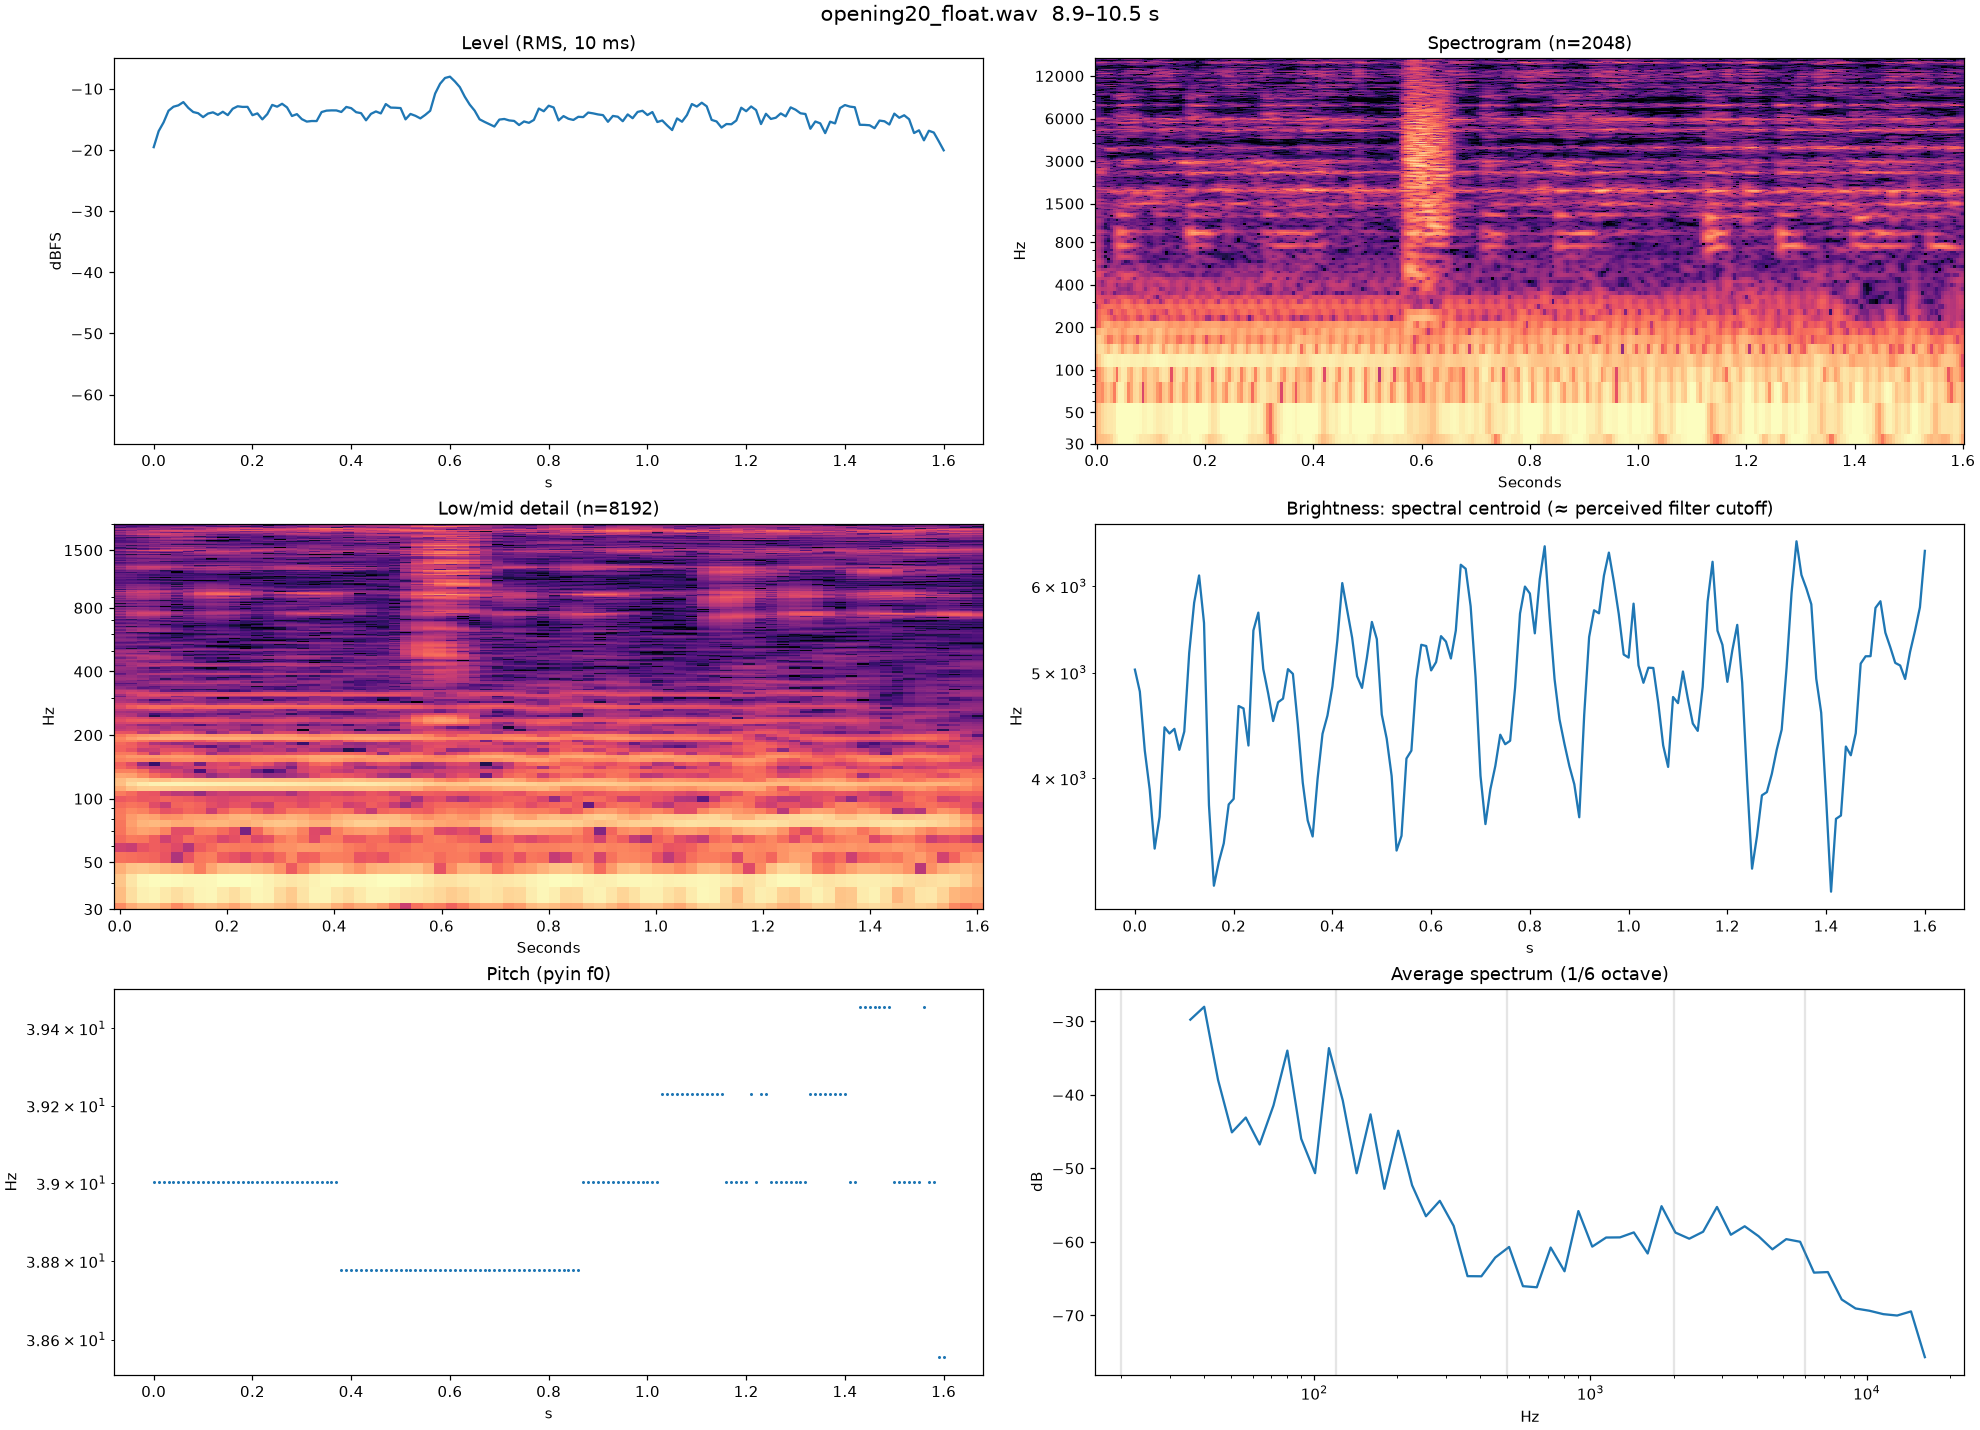
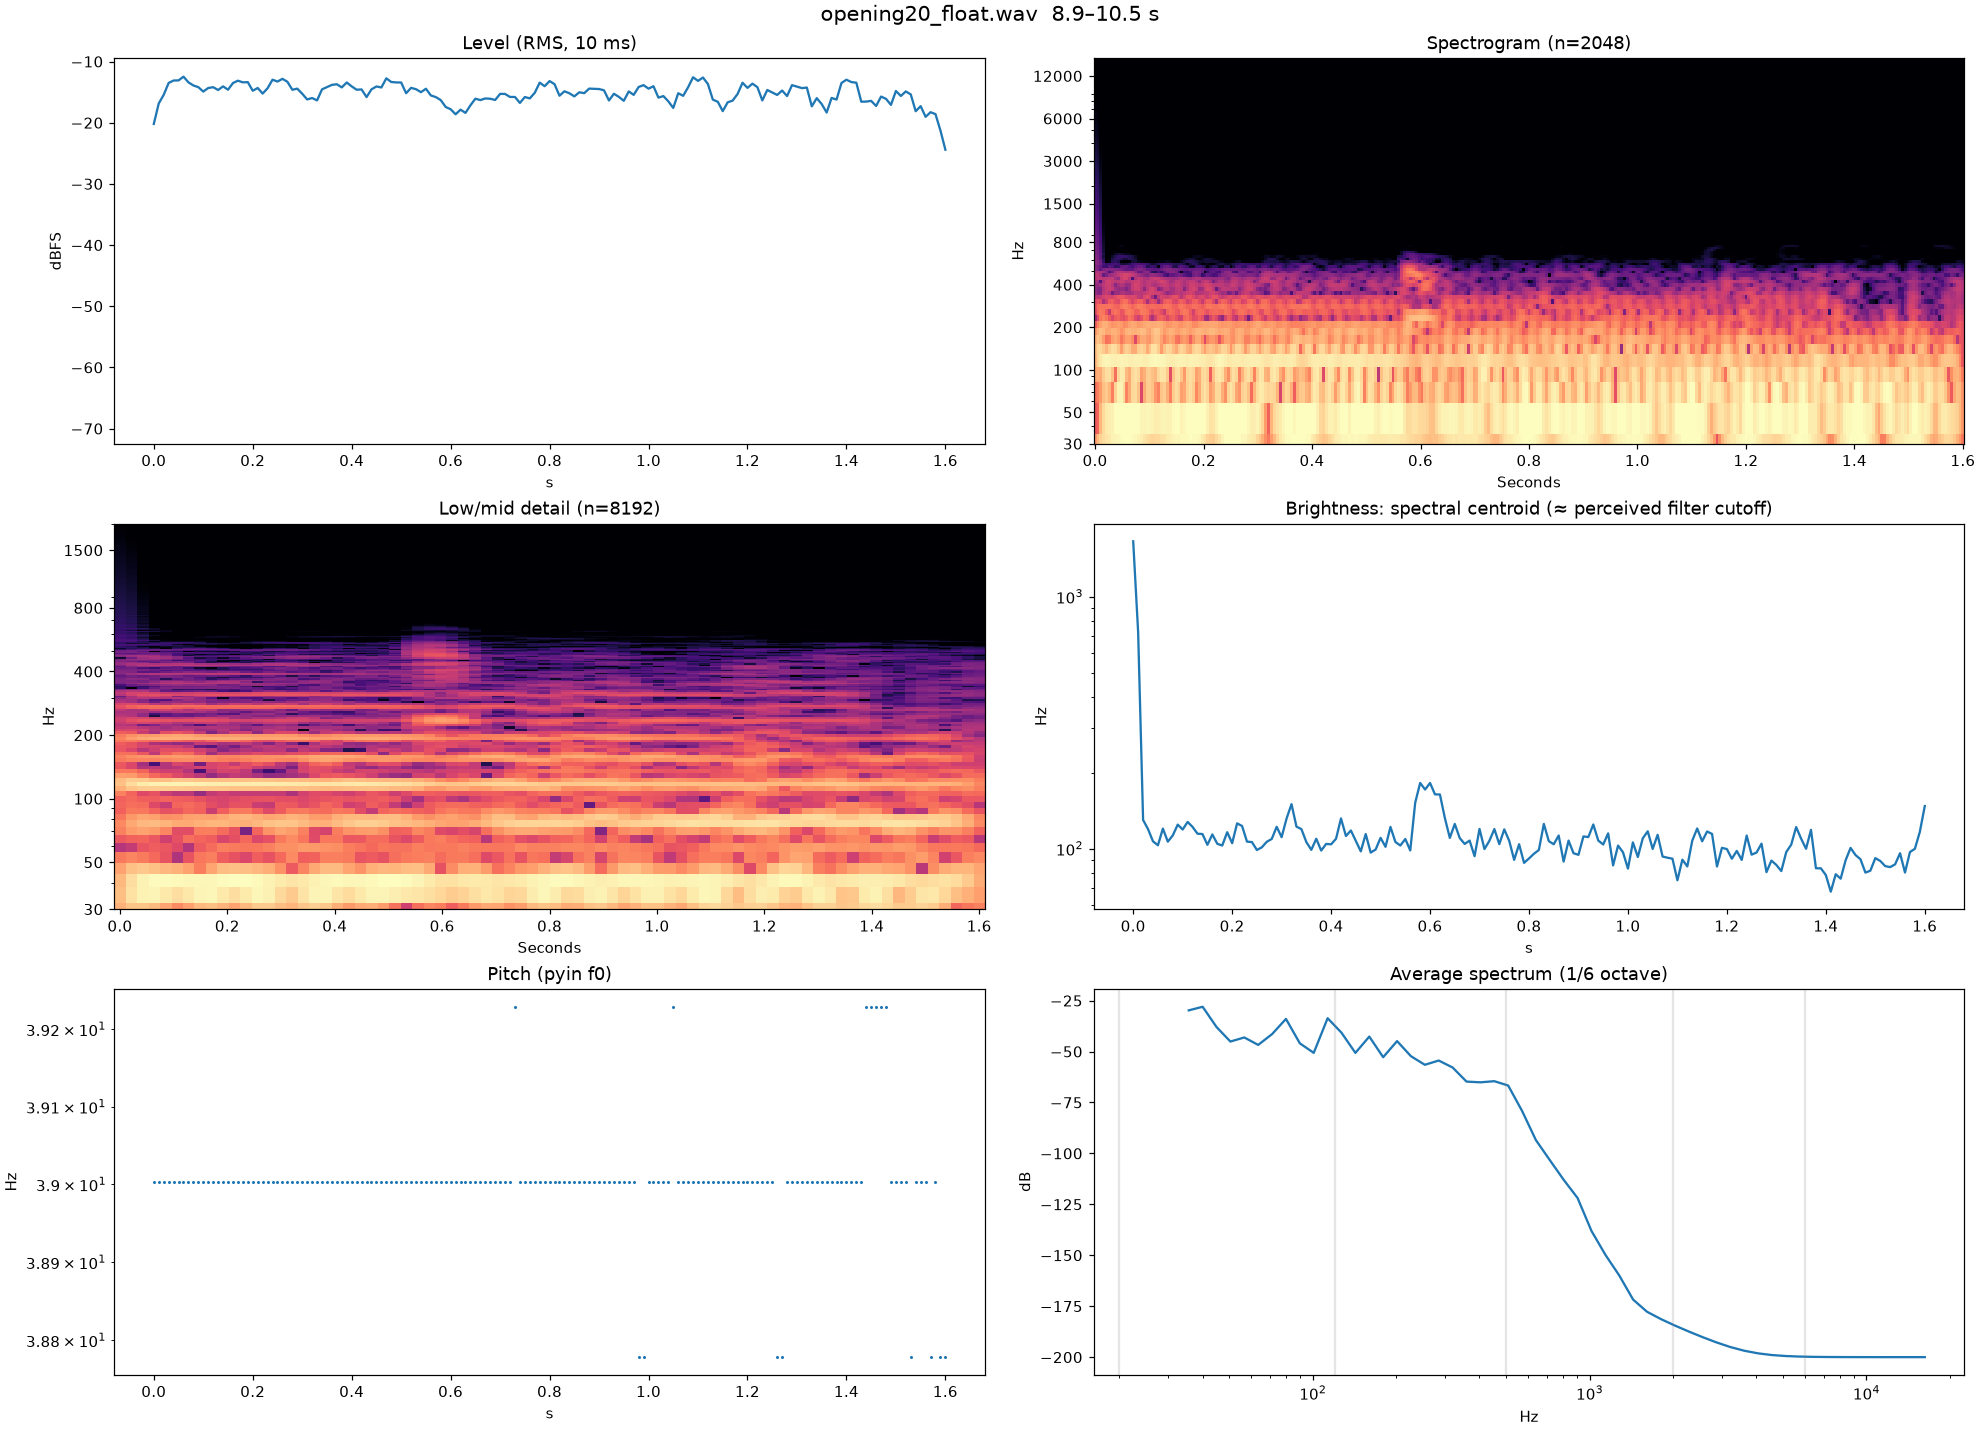
Flume: bass guide 8.9–10.5 s and analysis figures

diff --git a/songs/flume-ipIUQVpiarE/guides/bass_8.9-10.5.md b/songs/flume-ipIUQVpiarE/guides/bass_8.9-10.5.md
@@ -1,0 +1,55 @@
+# Bass @ 8.9–10.5 s
+
+The held D♯1 bass that enters at ~8.4 s. The 8.9–10.5 s window is its sustain; the entry (8.38–8.9 s) was measured
+separately because it carries the pitch drop. Figures: `figures/opening20_float_8.9-10.5s/` (band 20–500 Hz) and
+`figures/opening20_float_8.3-9.1s/` (entry zoom). Full mix, not a stem: treat everything below as evidence, not proof.
+
+## What the analysis shows
+- **Pitch: D♯1 (39.0 Hz, +5 ct), 100 % voiced, dead steady across the sustain.** No vibrato, no glide inside the window. → one held note, no LFO on pitch. *Confidence: high.*
+- **Entry: pitch falls from ≈49 Hz (G1) to 39 Hz over ≈0.6 s**, with the first ≈0.45 s about 10 dB louder than the sustain. → a downward pitch envelope of about 4 semitones plus an amp envelope that decays to a lower sustain: the classic distorted-808 gesture. *Confidence: medium.* Three kick-like transients (≈8.40, 8.53, 8.66 s) sit on top and inflate both the loudness and the pitch trace.
+- **Harmonics (rel. H1): H2 −7.5, H3 −1.6, H4 −13, H5 −10, H7 −18 dB; even−odd −5.3 dB.** Odd harmonics dominate → symmetric saturation of a sine (clip or fold), with some asymmetry for H2. H3 only 1.6 dB below H1 is *more* than a hard clip can produce (a perfect square gives H3 at −9.5 dB, tanh-style soft clip ≈ −11 dB). So either the fundamental has been turned down by the mix/master (very common at 39 Hz; YouTube encoding too), or the shaper folds, or both. *Confidence: medium.* Don't chase H3 = H1 exactly.
+- **Timbre drifts during the sustain, even though brightness looks flat.** Centroid sits at 105 Hz (10–90 %: 85–125 Hz) the whole time, but under the hood H3 falls from −2.5 to −7.5 dB and H5 from −11 to −19 dB while H2 *rises* from −9 to −1.4 dB. → drive is relaxing over ~1.3 s while the asymmetric (even) part stays. *Confidence: low-medium*: a rising H2 could also come from another part in the mix.
+- **Harmonics roll off steadily up to ~500 Hz** (H10 at 390 Hz ≈ −30 dB). → a low-pass after the distortion, somewhere around 300–450 Hz. The band filter hides anything above 500 Hz, so the exact cutoff is a guess.
+- **Width: 20–120 Hz L/R corr 0.99 (mono); 120–500 Hz 0.88.** → mono sub, at most a touch of width on the harmonics. The 0.88 may just be other instruments, so start fully mono.
+
+## Serum 2 patch, step by step
+1. **Init preset. Voicing: Mono, Legato off, Porta 0.**
+   – *why:* single held note; legato off makes the pitch envelope fire on every note.
+2. **Oscillators: Osc A = sine** (Wavetable mode, *Basic Shapes*, WT Pos at the sine frame), Oct 0, Unison 1. Sub and Noise off. Route Osc A to Filter in the Mixer.
+   – *why:* the fundamental is a stable 39 Hz and the harmonics look like a *processed* sine, not a saw (a saw would give strong even harmonics: H2 at −6 dB, H4 at −12 dB, with no odd dominance).
+3. **Filter 1: MG Low 24, cutoff ≈ 380 Hz, Res 0–10 %, Drive 0.** In the FX rack, set the Distortion's filter to *Post* or put an FX **Filter** after the Distortion so the roll-off happens *after* the harmonics are created.
+   – *why:* harmonics fade steadily towards 500 Hz; the low-pass has to tame what the distortion adds, so it must sit after it.
+4. **Envelopes**
+   - **Env 1 (amp): A 2 ms, H 0, D 450 ms, S ≈ −10 dB, R 120 ms.**
+     – *why:* fast onset, a loud ≈0.45 s head, then a flat sustain ≈10 dB lower (level panel: −15 ±3 dB for the whole window).
+   - **Env 2 → Osc A pitch (Matrix): A 0, H 0, D 600 ms, S 0, R 0.** Set the matrix amount so the note *starts* 4 semitones up (hover the amount and read the value, or tune by ear until the first instant sounds like G1).
+     – *why:* the pitch trace falls 49 → 39 Hz over ≈0.6 s. Give the decay curve a slightly concave (fast-then-slow) shape.
+   - **Env 3 → Distortion Drive (Matrix), optional for v02: A 0, D 1.3 s, S ≈ 60 %, amount ≈ +25 %.**
+     – *why:* odd harmonics (H3, H5) fade over the sustain. Leave it out until pitch, level and basic tone match.
+5. **LFOs: none.**
+   – *why:* the level wobble (±3 dB) is irregular, not tempo-synced, and pitch is steady. That is most likely the mix, not the patch.
+6. **FX (Main), in this order**
+   1. **Distortion: Soft Clip, Drive ≈ 50 %, DC bias ≈ 10–15 %.** If H3 stays too quiet even at high drive, try **Sin Fold** at low drive (25–35 %) instead.
+      – *why:* odd harmonics dominate → symmetric shaper; H2 at −7.5 dB → a bit of DC bias for asymmetry. Sin Fold is the shaper that can push H3 up near H1.
+   2. **Filter** (if you didn't use the Distortion's post filter): MG Low 24, ≈380 Hz.
+   3. **Utility: Mono Bass on, 120 Hz** (or Width 0 %).
+      – *why:* sub corr 0.99.
+   - No reverb, delay or chorus: nothing in the measurements asks for them.
+7. **Macros worth mapping**
+   - **M1 Drive** → Distortion Drive (the biggest lever on H3/H5).
+   - **M2 Tone** → Filter 1 / FX Filter cutoff, range 200–700 Hz.
+   - **M3 Drop** → Env 2 → pitch matrix amount, 0–7 semitones.
+   - **M4 Asym** → Distortion DC bias (H2 level).
+
+## Render it for comparison
+- Play **one note D♯1 (MIDI 27)**, held **2.2 s**, any BPM (120 is fine), velocity 100. Note names differ per DAW: MIDI 27 shows as **D♯0 in Ableton** (C3 = 60) and **D♯2 in FL Studio** (C5 = 60). Check that the analyser says D♯1 / 39 Hz.
+- Export the Serum track only, **48 kHz, 24-bit or 32-bit float WAV, normalise OFF**, starting exactly at the note.
+- Save as `songs/flume-ipIUQVpiarE/attempts/bass_v01.wav`, then run `/compare-attempt`. It compares two windows:
+  - sustain: `--ref-start 8.9 --ref-end 10.5 --att-start 0.52 --band 20 500 --fmin 25 --fmax 200`
+  - entry: `--ref-start 8.38 --ref-end 8.9 --band 20 500 --fmin 25 --fmax 200`
+
+## What to listen for
+A/B `renders/bass_ref.wav` (8.3–10.6 s, 20–500 Hz, normalised) against your render, level-matched, on headphones or decent monitors. Small speakers will hide the 39 Hz fundamental.
+1. **The first half-second:** do you hear the pitch *fall* into the note, or only a louder hit? Turn M3 to 0 and back to see what the drop adds.
+2. **On small speakers or a phone:** can you still "hear" the note? That is H3 (117 Hz) and H2 (78 Hz) doing the work. Sweep M1 and notice when yours goes from "sine" to "buzzy" and when it passes the reference.
+3. **During the sustain:** does the reference get slightly rounder/warmer towards 10 s? That's the falling-odd / rising-even drift. Only if you hear it, try the Env 3 → Drive step.
